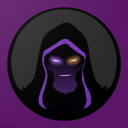
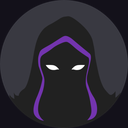
fix: publish square website branding with provenance (#3)

diff --git a/rebuild/test_pipeline.py b/rebuild/test_pipeline.py
@@ -45,6 +45,42 @@ class PipelineTests(unittest.TestCase):
             with self.subTest(field=field), self.assertRaises(ValueError):
                 pipeline.validate_catalog_metadata(dict(info, **{field: value}), info)
 
+    def test_package_rejects_non_square_or_transparent_icons(self):
+        import io
+        from PIL import Image
+        with tempfile.TemporaryDirectory() as td:
+            p = Path(td)/'package.aix'
+            for size, color in [((64, 128), (0, 0, 0, 255)), ((128, 128), (0, 0, 0, 0))]:
+                icon = io.BytesIO()
+                Image.new('RGBA', size, color).save(icon, format='PNG')
+                with zipfile.ZipFile(p, 'w') as z:
+                    z.writestr('Payload/source.json', json.dumps({'info': {'id': 'test'}}))
+                    z.writestr('Payload/main.wasm', b'\0asm\x01\0\0\0')
+                    z.writestr('Payload/icon.png', icon.getvalue())
+                with self.subTest(size=size, color=color), self.assertRaises(ValueError):
+                    pipeline.inspect_package(p, 'test')
+
+    def test_all_six_source_icons_match_provenance(self):
+        import hashlib
+        from PIL import Image
+        records = json.loads((pipeline.ROOT/'rebuild/icon-provenance.json').read_text())
+        rows = json.loads((pipeline.ROOT/'rebuild/sources.json').read_text())
+        self.assertEqual(len(records), 6)
+        self.assertEqual({r['id'] for r in records}, {r['id'] for r in rows})
+        for row in rows:
+            record = next(r for r in records if r['id'] == row['id'])
+            icon = pipeline.ROOT/row['path']/'res/icon.png'
+            info = json.loads(icon.with_name('source.json').read_text())['info']
+            self.assertEqual(info['version'], record['version'])
+            self.assertEqual(hashlib.sha256(icon.read_bytes()).hexdigest(), record['result_sha256'])
+            with Image.open(icon) as image:
+                self.assertEqual(image.format, 'PNG')
+                self.assertEqual(image.size, (128, 128))
+                self.assertEqual(image.convert('RGBA').getchannel('A').getextrema(), (255, 255))
+            if row['id'] in ('multi.luc1d-imhentai', 'multi.luc1d-hentaifox'):
+                self.assertEqual(info['languages'], ['multi'])
+                self.assertEqual(info['contentRating'], 2)
+
     def test_package_identity_and_wasm_validation(self):
         with tempfile.TemporaryDirectory() as td:
             p=Path(td)/'package.aix'
@@ -52,7 +88,11 @@ class PipelineTests(unittest.TestCase):
                 with zipfile.ZipFile(p,'w') as z:
                     z.writestr('Payload/source.json',json.dumps({'info':{'id':identifier,'version':1}}))
                     z.writestr('Payload/main.wasm',wasm)
-                    z.writestr('Payload/icon.png',b'fixture')
+                    import io
+                    from PIL import Image
+                    icon = io.BytesIO()
+                    Image.new('RGB', (128, 128), 'white').save(icon, format='PNG')
+                    z.writestr('Payload/icon.png',icon.getvalue())
             package('en.luc1d-asurascans',b'\0asm\x01\0\0\0')
             self.assertEqual(pipeline.inspect_package(p,'en.luc1d-asurascans')['version'],1)
             with self.assertRaises(ValueError): pipeline.inspect_package(p,'wrong.id')

diff --git a/rebuild/pipeline.py b/rebuild/pipeline.py
@@ -1,7 +1,9 @@
 """Build only local Rust; fail closed on incomplete release or missing artifacts."""
 import argparse
 import hashlib
+import io
 import json
+from PIL import Image
 from pathlib import Path, PurePosixPath
 import re
 import shutil
@@ -39,8 +41,11 @@ def inspect_package(path, expected_id):
             raise ValueError('Package ID mismatch')
         if not archive.read('Payload/main.wasm').startswith(b'\0asm\x01\0\0\0'):
             raise ValueError('Invalid wasm header')
-        if not archive.read('Payload/icon.png'):
-            raise ValueError('Missing icon')
+        with Image.open(io.BytesIO(archive.read('Payload/icon.png'))) as icon:
+            if icon.format != 'PNG' or icon.size != (128, 128):
+                raise ValueError('Icon must be 128x128 PNG')
+            if icon.convert('RGBA').getchannel('A').getextrema() != (255, 255):
+                raise ValueError('Icon must be fully opaque')
         return info
 
 def validate_catalog_metadata(actual, expected):
@@ -94,7 +99,13 @@ def main():
         info=inspect_package(package,item['id'])
         validate_catalog_metadata(info, source_infos[item['id']])
         validate_catalog_metadata(item, info)
-        if not (out/item['iconURL']).is_file(): raise ValueError('Missing generated icon')
+        icon_bytes = (out/item['iconURL']).read_bytes()
+        with zipfile.ZipFile(package) as archive:
+            if icon_bytes != archive.read('Payload/icon.png'):
+                raise ValueError('Catalog/package icon mismatch')
+        source_row = next(row for row in selected if row['id'] == item['id'])
+        if icon_bytes != (ROOT/source_row['path']/'res/icon.png').read_bytes():
+            raise ValueError('Catalog/source icon mismatch')
     (out/'.nojekyll').touch()
     (out/'build-report.json').write_text(json.dumps(dict(release=args.release,requested=6,built=len(results),sources=results),indent=2)+'\n')
     checksums=[]
